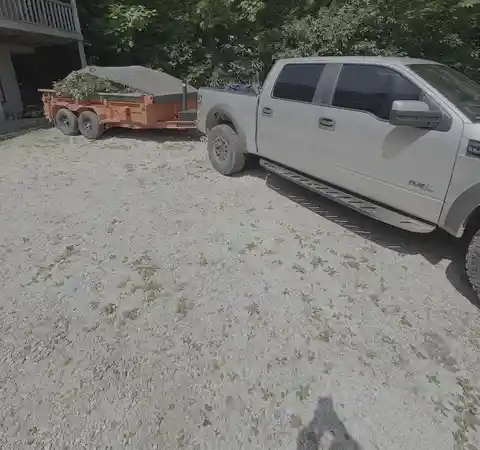
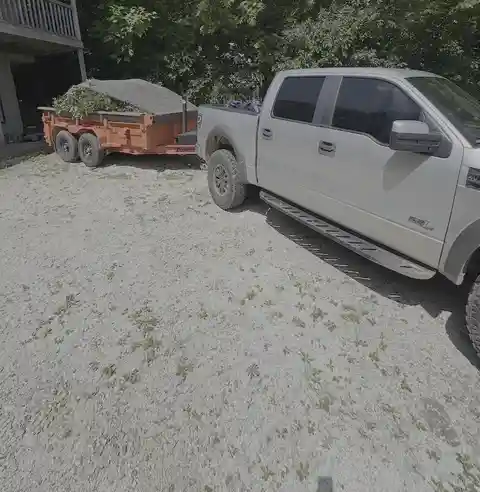
Hero: recrop to show full truck and trailer, fix background position
Cropped from rows 380-1200 of the portrait (820px) so the full truck
and dump trailer are in frame with minimal trees. Changed position to
center 55% so the truck body sits mid-hero rather than anchored at the
very bottom of the container.

diff --git a/app/globals.css b/app/globals.css
@@ -1121,7 +1121,7 @@
   inset: 0;
   background:
     linear-gradient(90deg, rgba(22, 27, 22, 0.92) 0%, rgba(22, 27, 22, 0.74) 44%, rgba(22, 27, 22, 0.36) 100%),
-    url("/hero-truck.webp") center bottom / cover;
+    url("/hero-truck.webp") center 55% / cover;
   opacity: 1;
 }
 .home-hero-overlay {
@@ -1317,7 +1317,7 @@
   .home-hero::before {
     background:
       linear-gradient(180deg, rgba(22, 27, 22, 0.62), rgba(22, 27, 22, 0.42)),
-      url("/hero-truck-mobile.webp") center bottom / cover;
+      url("/hero-truck-mobile.webp") center 55% / cover;
   }
   .home-hero-overlay {
     background: linear-gradient(180deg, rgba(0,0,0,0.04), rgba(0,0,0,0.18));
